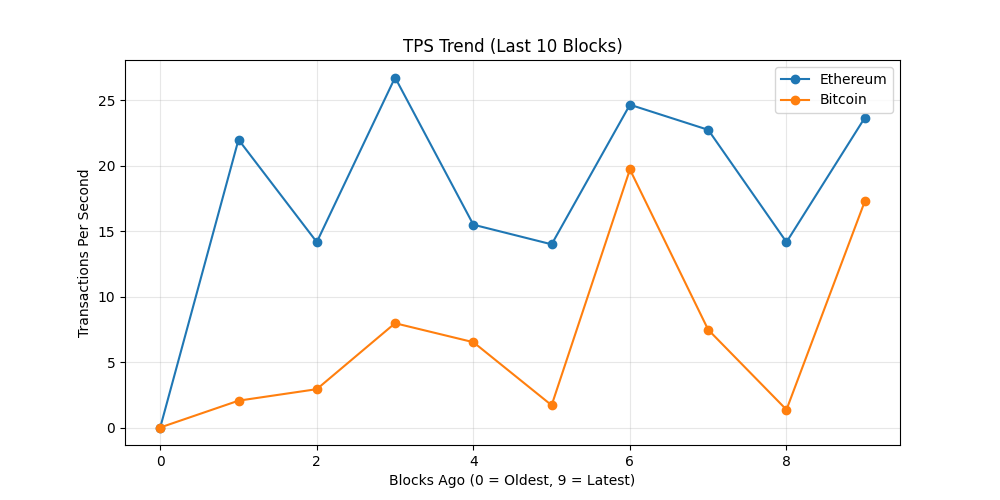
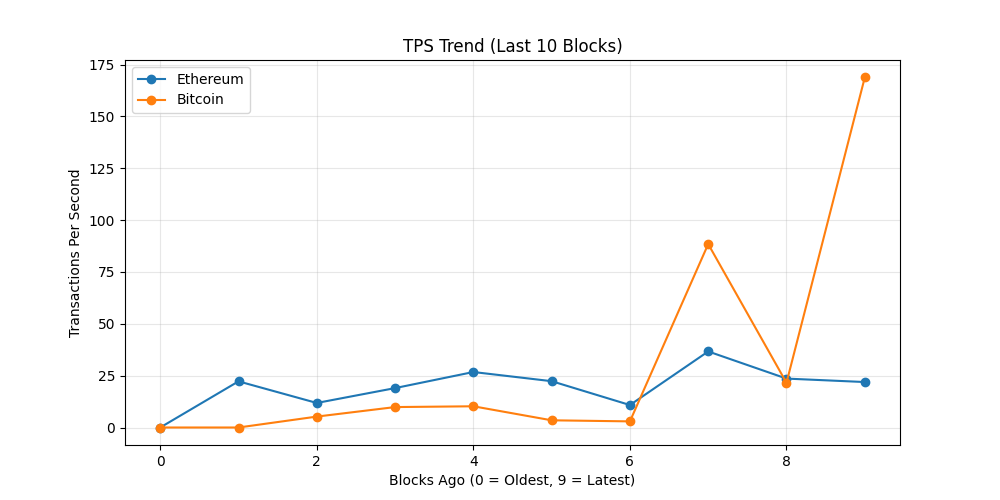
chore: update on-chain dashboard

diff --git a/README.md b/README.md
@@ -19,7 +19,7 @@ The README itself acts as the dashboard and is regenerated automatically on a 6 
 demonstrating a production-style, infrastructure-focused observability workflow rather
 than a traditional UI-driven approach.
 
-_Last updated: 2026-09-08 21:08 UTC_
+_Last updated: 2026-09-09 04:39 UTC_
 
 ## API Usage (GetBlock.io)
 - Calls used: **24**
@@ -27,8 +27,8 @@ _Last updated: 2026-09-08 21:08 UTC_
 ## Network Metrics
 | Chain | Block Height | TX Count | TPS (10 blk avg) | Block Util | Avg Fee |
 |------|-------------|----------|------------------|------------|---------|
-| Ethereum | 25935231 | 284 | 23.67 | 66.42% | 0.1 Gwei |
-| Bitcoin | 966110 | 4509 | 17.28 | 99.8% | N/A |
+| Ethereum | 25937479 | 263 | 21.92 | 55.45% | 0.1 Gwei |
+| Bitcoin | 966149 | 6075 | 168.75 | 99.79% | N/A |
 
 ## Visuals
 ### Transactions Trend
@@ -43,11 +43,7 @@ _Last updated: 2026-09-08 21:08 UTC_
 ## Whale Alerts (latest block)
 - Transaction hashes are truncated for readability.
 - Full hashes are available in `dashboards/metrics.json`
-- Bitcoin | 172.71 BTC | `80d79dfa1c93…`
-- Bitcoin | 123.09 BTC | `014f72629001…`
-- Bitcoin | 150.9 BTC | `29ebb085ba4a…`
-- Bitcoin | 191.73 BTC | `786179a593cf…`
-- Bitcoin | 100.12 BTC | `6cf0d29f1c67…`
+No whale-sized transfers detected in latest blocks.
 
 ## Run locally
 
